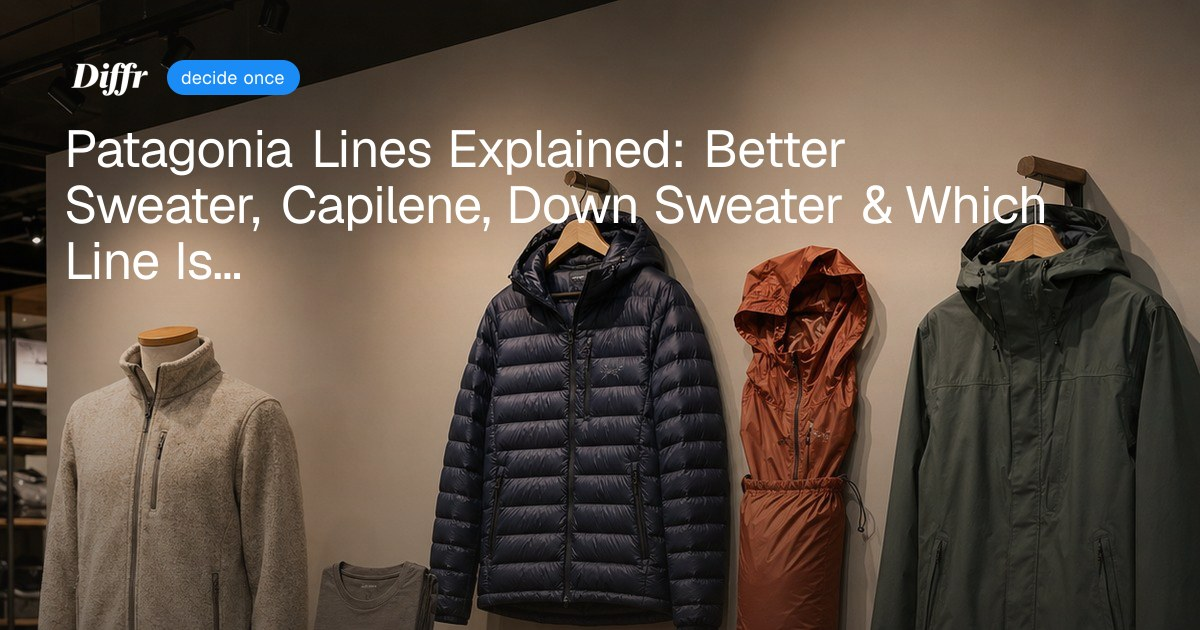
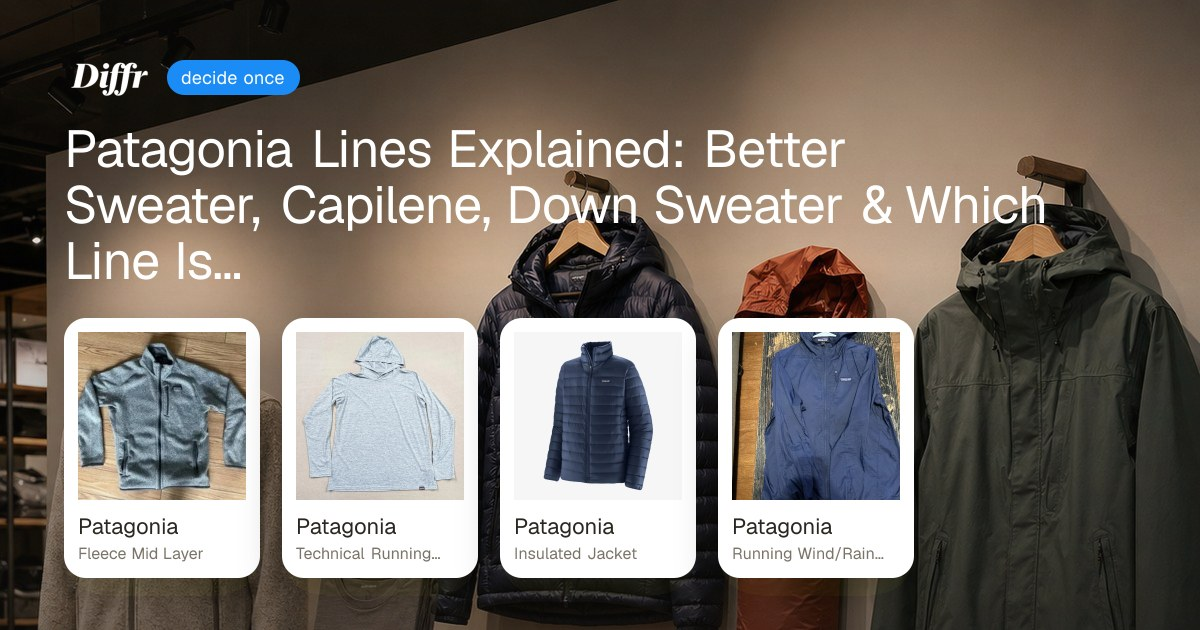
Wire Patagonia lines preset 126 for OG slot tiles and rebake share card.
Lines-explained posts need BLOG_SLUG_TO_PRESET + Supabase kit; preset 126 pins
four imaged classics (Better Sweater, Capilene, Down, Houdini) for share tiles.

Changed region(s): [[0.0308, 0.4825, 0.7708, 0.9349]]

diff --git a/app/diffr/start/lib.ts b/app/diffr/start/lib.ts
@@ -124,6 +124,7 @@ export const SLUG_TO_PRESET: Record<string, number> = {
   "adidas-lines-flat-lay": 117,
   "uniqlo-lines-flat-lay": 118,
   "apple-ecosystem-flat-lay": 119,
+  "patagonia-lines-flat-lay": 126,
 };
 
 // Slugs with no domain_guide editorial shell — rendered lean from preset data.
@@ -159,6 +160,7 @@ export const PRESET_ONLY_SLUGS = new Set<string>([
   "adidas-lines-flat-lay",
   "uniqlo-lines-flat-lay",
   "apple-ecosystem-flat-lay",
+  "patagonia-lines-flat-lay",
 ]);
 
 export async function getPresetMeta(

diff --git a/app/diffr/blog-slug-maps.ts b/app/diffr/blog-slug-maps.ts
@@ -40,6 +40,7 @@ export const BLOG_SLUG_TO_START: Record<string, string> = {
   'adidas-lines-explained': 'adidas-lines-flat-lay',
   'uniqlo-lines-explained': 'uniqlo-lines-flat-lay',
   'apple-ecosystem-lines-explained': 'apple-ecosystem-flat-lay',
+  'patagonia-lines-explained': 'patagonia-lines-flat-lay',
 }
 
 /** Inverse map: start funnel slug → SEO-canonical blog post slug. */

diff --git a/app/diffr/blog/[slug]/page.tsx b/app/diffr/blog/[slug]/page.tsx
@@ -77,6 +77,7 @@ export const BLOG_SLUG_TO_PRESET: Record<string, number> = {
   'adidas-lines-explained': 117,
   'uniqlo-lines-explained': 118,
   'apple-ecosystem-lines-explained': 119,
+  'patagonia-lines-explained': 126,
 }
 
 export async function generateStaticParams() {
